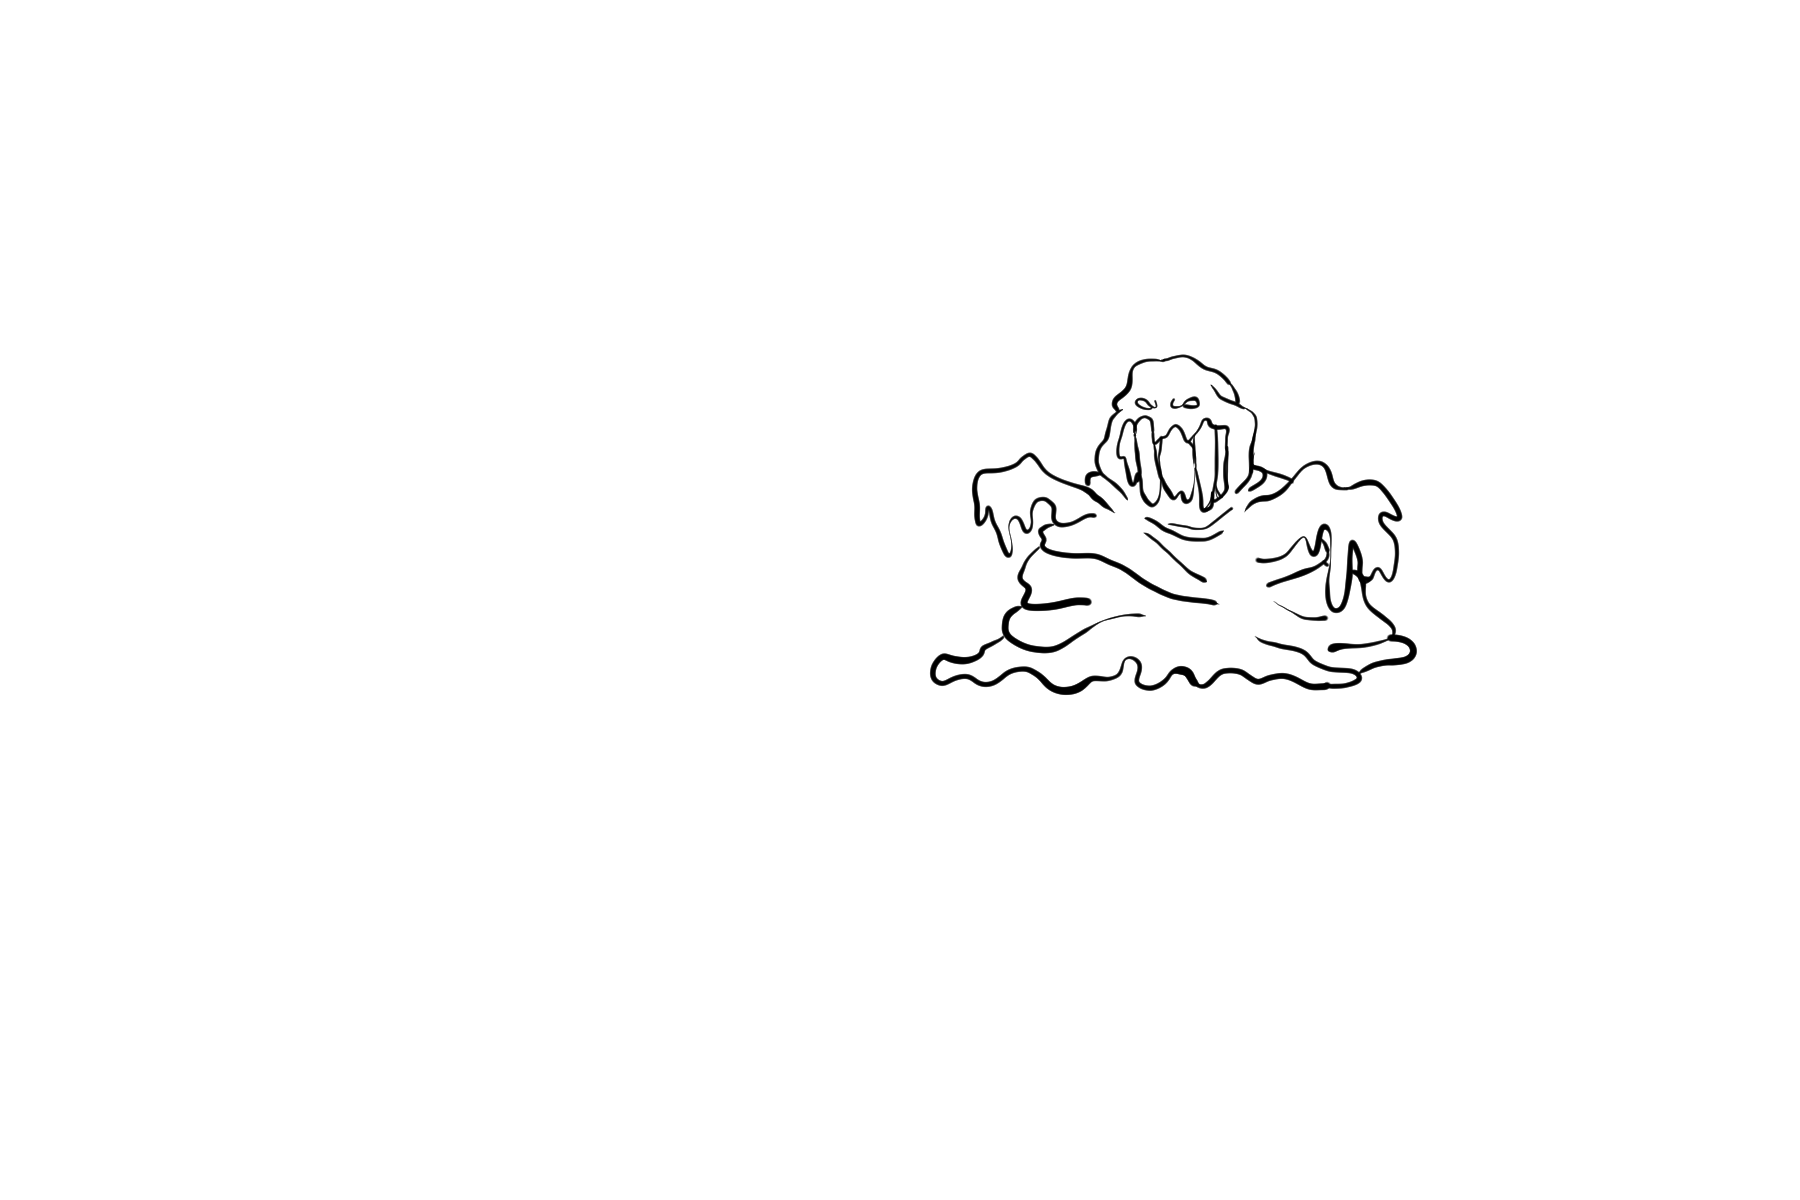
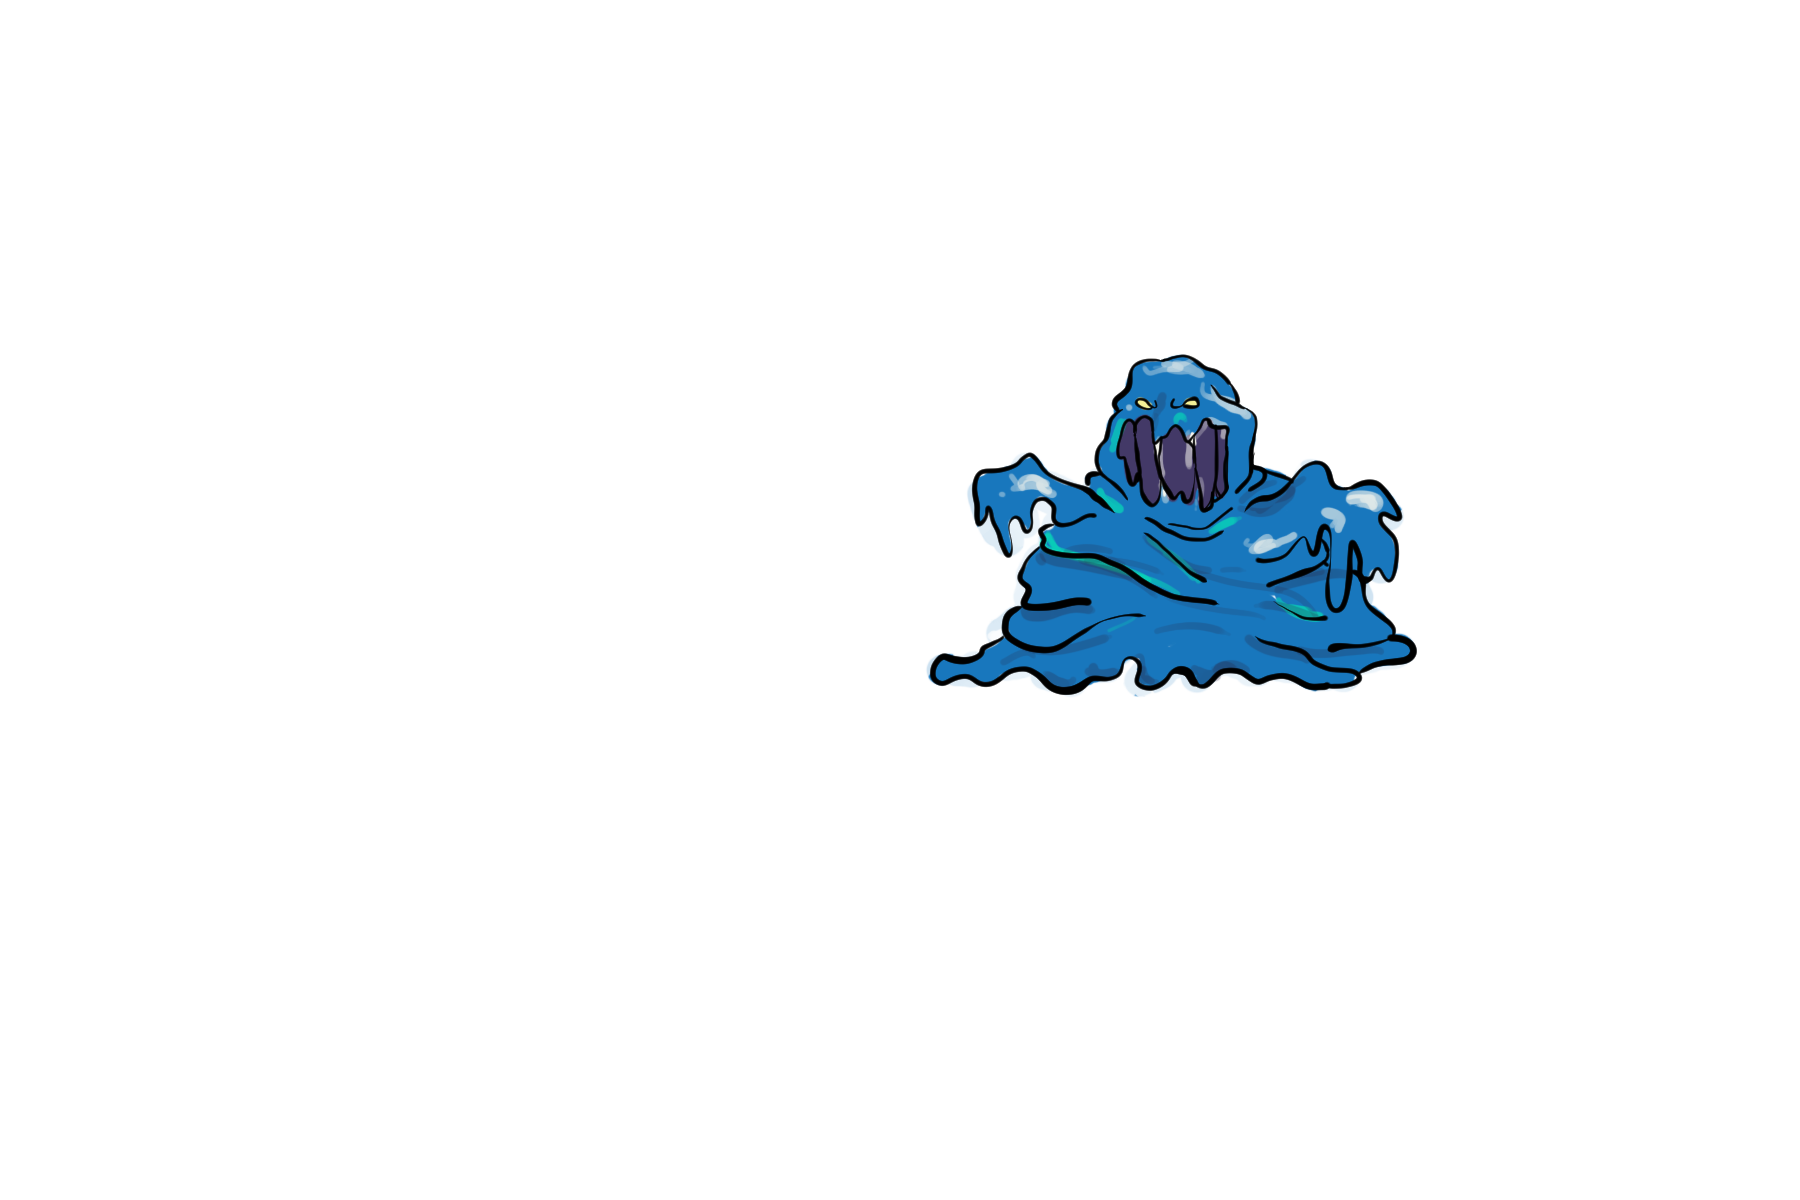
Add character backs

Changed region(s): [[0.4978, 0.2775, 0.7778, 0.5858]]

diff --git a/src/ui/sprites.ts b/src/ui/sprites.ts
@@ -47,6 +47,7 @@ export enum SpriteName {
 	KEY_5,
 	KEY_6,
 	KEY_7,
+	MAGICAL_TRAP
 
 }
 
@@ -59,10 +60,10 @@ let SPRITE_URLS = [
 	"door1_closed.png",
 	"door2_closed.png",
 	"door3_closed.png",
-	"char1_back.png",
-	"char1_back.png",
-	"char1_back.png",
-	"char1_back.png",
+	"fighter_1.png",
+	"archer.png",
+	"shaman.png",
+	"tinker.png",
 	"char1_front.png",
 	"char1_front.png",
 	"char1_front.png",
@@ -78,10 +79,10 @@ let SPRITE_URLS = [
 	"lohikaarme_red.png",
 	"lohikaarme_purple.png",
 	"lohikaarme_yellow.png",
-	"ooze_blue.png", // TODO add graphics (BLUE_OOZE) (currently generic)
-	"ooze_green.png", // TODO add graphics (GREEN_OOZE) (currently generic)
-	"ooze_red.png", // TODO add graphics (RED_OOZE) (currently generic)
-	"ooze_yellow.png", // TODO add graphics (YELLOW_OOZE) (currently generic)
+	"ooze_blue.png",
+	"ooze_green.png",
+	"ooze_red.png",
+	"ooze_yellow.png",
 	"lohikaarme_generic.png", // TODO add graphics (DOOM_ROOM
 	"kaappi_ja_varjot1.png",
 	"kaappi_ja_varjot2.png",

diff --git a/src/ui/ui.ts b/src/ui/ui.ts
@@ -276,12 +276,13 @@ export class UserInterface implements UserInterfaceInterface {
 				this.animation.characterAnimations[i] : Animation.IDLE;
 
 			if (state == Animation.IDLE) {
-				let pos: Coord = new Coord(i * 200 * posScale.scale.x, 0).add(offset);
+				let pos: Coord = new Coord((i * 330 + 100) * posScale.scale.x,
+					posScale.bgSize.y - 500 * scale).add(offset);
 				pos.y -= this.drawer.getSpriteSize(SpriteName.CHAR_1_BACK + i, scale).y;
 				const frame = state == Animation.IDLE ? 0 : 2;
 				this.drawer.drawSprite(context,
 					SpriteName.CHAR_1_BACK + CHARACTER_COUNT * frame + i,
-					pos, posScale.scale);
+					posScale.pos.add(new Coord(0, 200 * scale)), posScale.scale);
 				this.drawHP(context, i, pos, posScale.scale.x);
 			}
 		}
